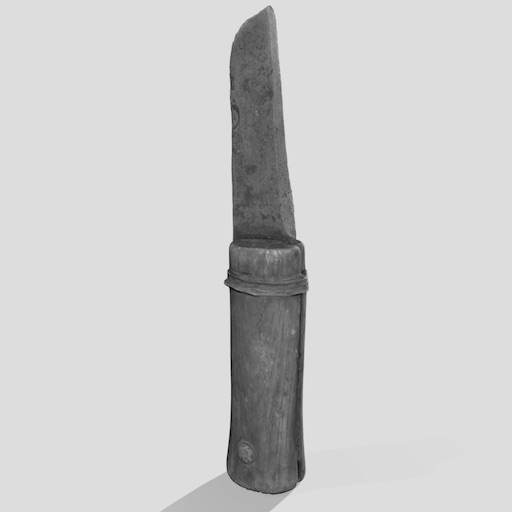
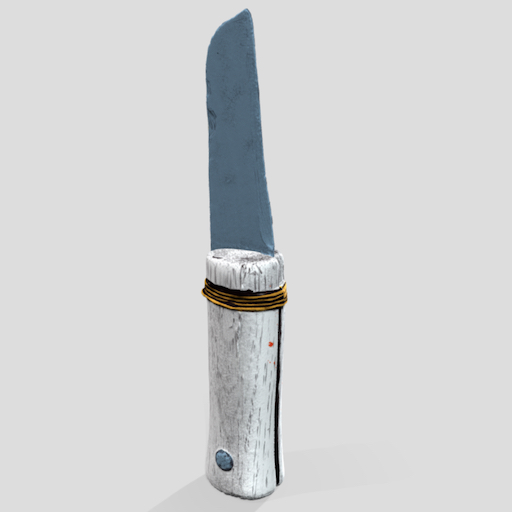
add
added sketch texture and thanks credit to OM for motivation

Changed region(s): [[0.375, 0.0, 0.625, 1.0]]

diff --git a/javascript/skfb_texture_swap.js b/javascript/skfb_texture_swap.js
@@ -1,4 +1,7 @@
-// Please share freely
+// Special thanks to O. Murray for suggesting exploring this and providing the incentive to try this out.
+// This code drew on free online resources and tutorials.
+
+// Please improve, build and share it freely also
 
 
 // findme note: requires the sketchfab api to be loaded.
@@ -246,3 +249,7 @@ function ready(){
   });
 
 }
+
+
+
+// findme@hairystickman.co.uk
